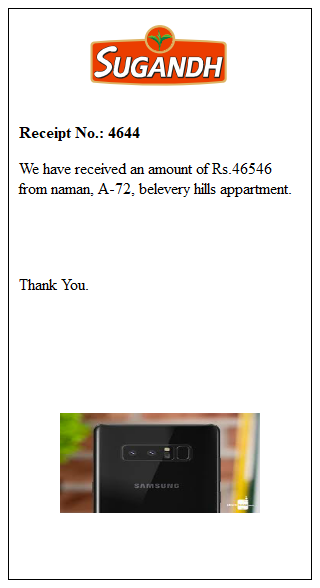
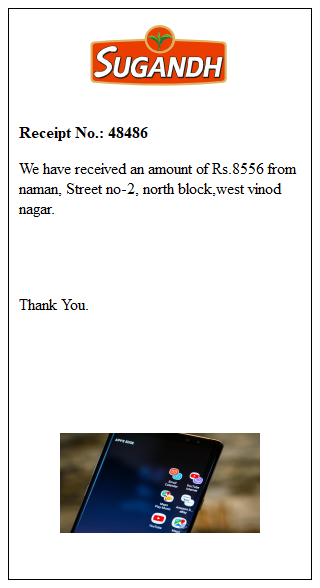
change in heroku

diff --git a/controllers/client_controller.js b/controllers/client_controller.js
@@ -66,22 +66,14 @@ module.exports.client  = function(req,res){
         
 
      // saving data in database
-     detail.save(function(err){
-        if(err){
-            console.log('Error in creating receipt', err);
-            return;
+     webshot(HTML, 'image.png', options, function(err) {
+        if (err !== null) {
+            console.log('Error occured', err);
+            
         }
-
-        webshot(HTML, 'image.png', options, function(err) {
-            if (err !== null) {
-                console.log('Error occured', err);
-                
-            }
-            const path2 =  __dirname.split('\\');
-            path2.pop();
-            res.download(path2.join('\\') + '/image.png', 'image.png');
-        });
-
+        const path2 =  __dirname.split('\\');
+        path2.pop();
+        res.download(path2.join('\\') + '/image.png', 'image.png');
     });
 }
 

diff --git a/config/mongoose.js b/config/mongoose.js
@@ -1,16 +1,16 @@
 //require library
-const mongoose= require('mongoose');
+// const mongoose= require('mongoose');
 
-//connect to database
-mongoose.connect('mongodb://localhost/client');
+// //connect to database
+// mongoose.connect('mongodb://localhost/client');
 
-//check connection
-const db = mongoose.connection;
+// //check connection
+// const db = mongoose.connection;
 
-//error
-db.on('error',console.error.bind(console,'error connecting to db'));
+// //error
+// db.on('error',console.error.bind(console,'error connecting to db'));
 
-//up and runnung then printing msg
-db.once('open',function(){
-    console.log('successfully connected to database');
-});
+// //up and runnung then printing msg
+// db.once('open',function(){
+//     console.log('successfully connected to database');
+// });
